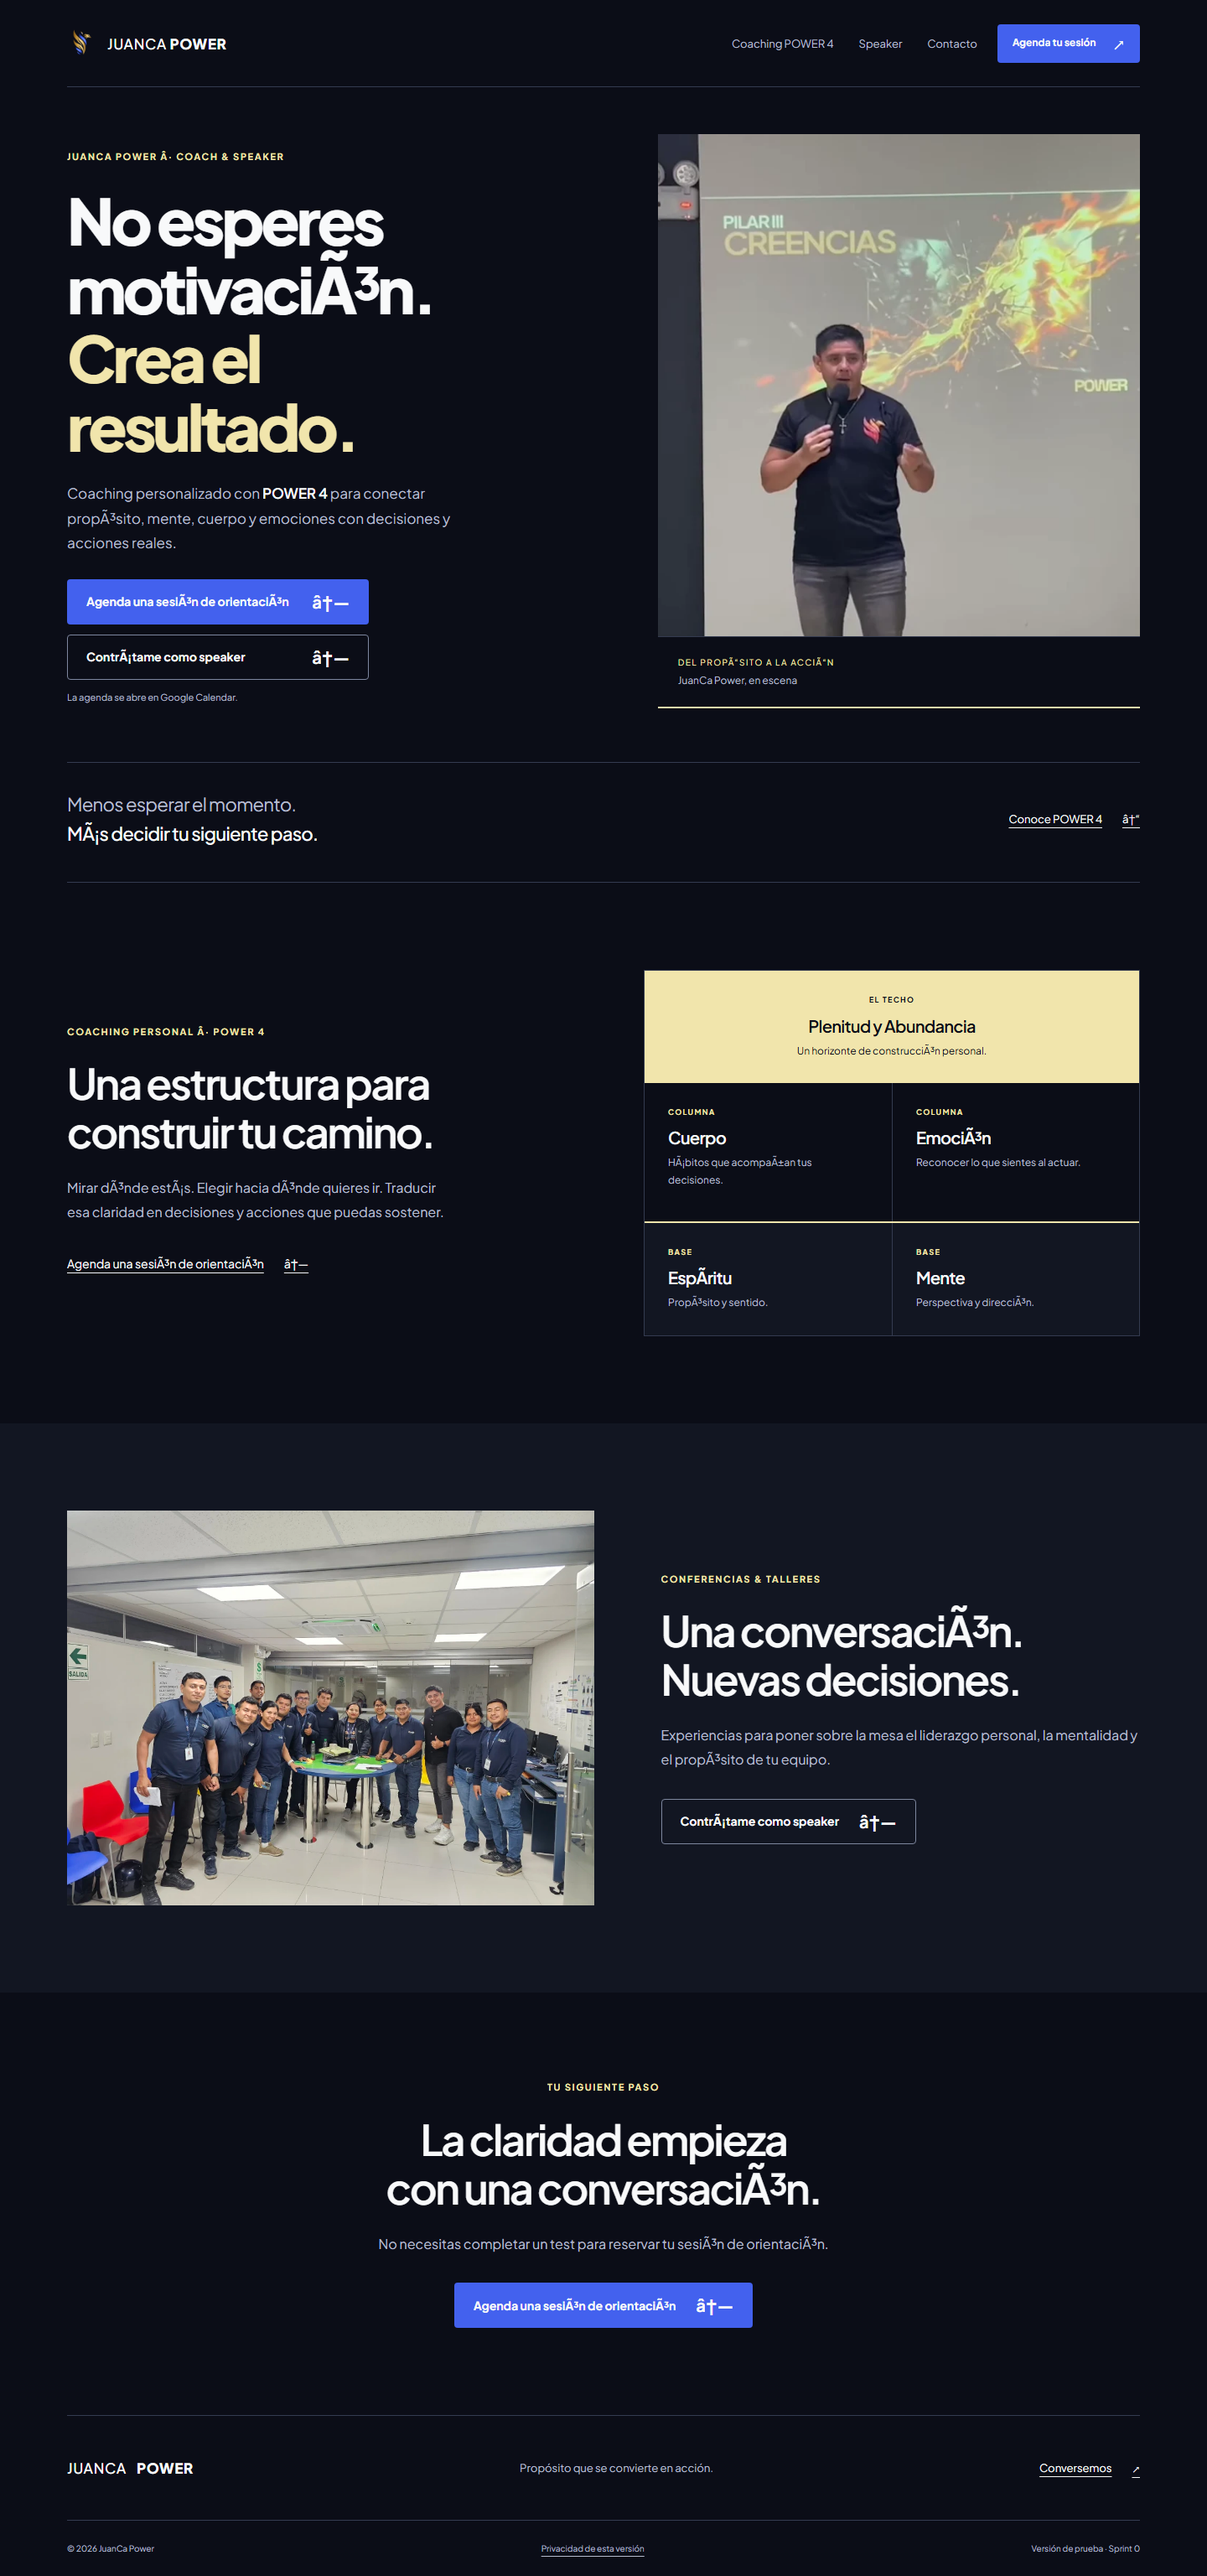
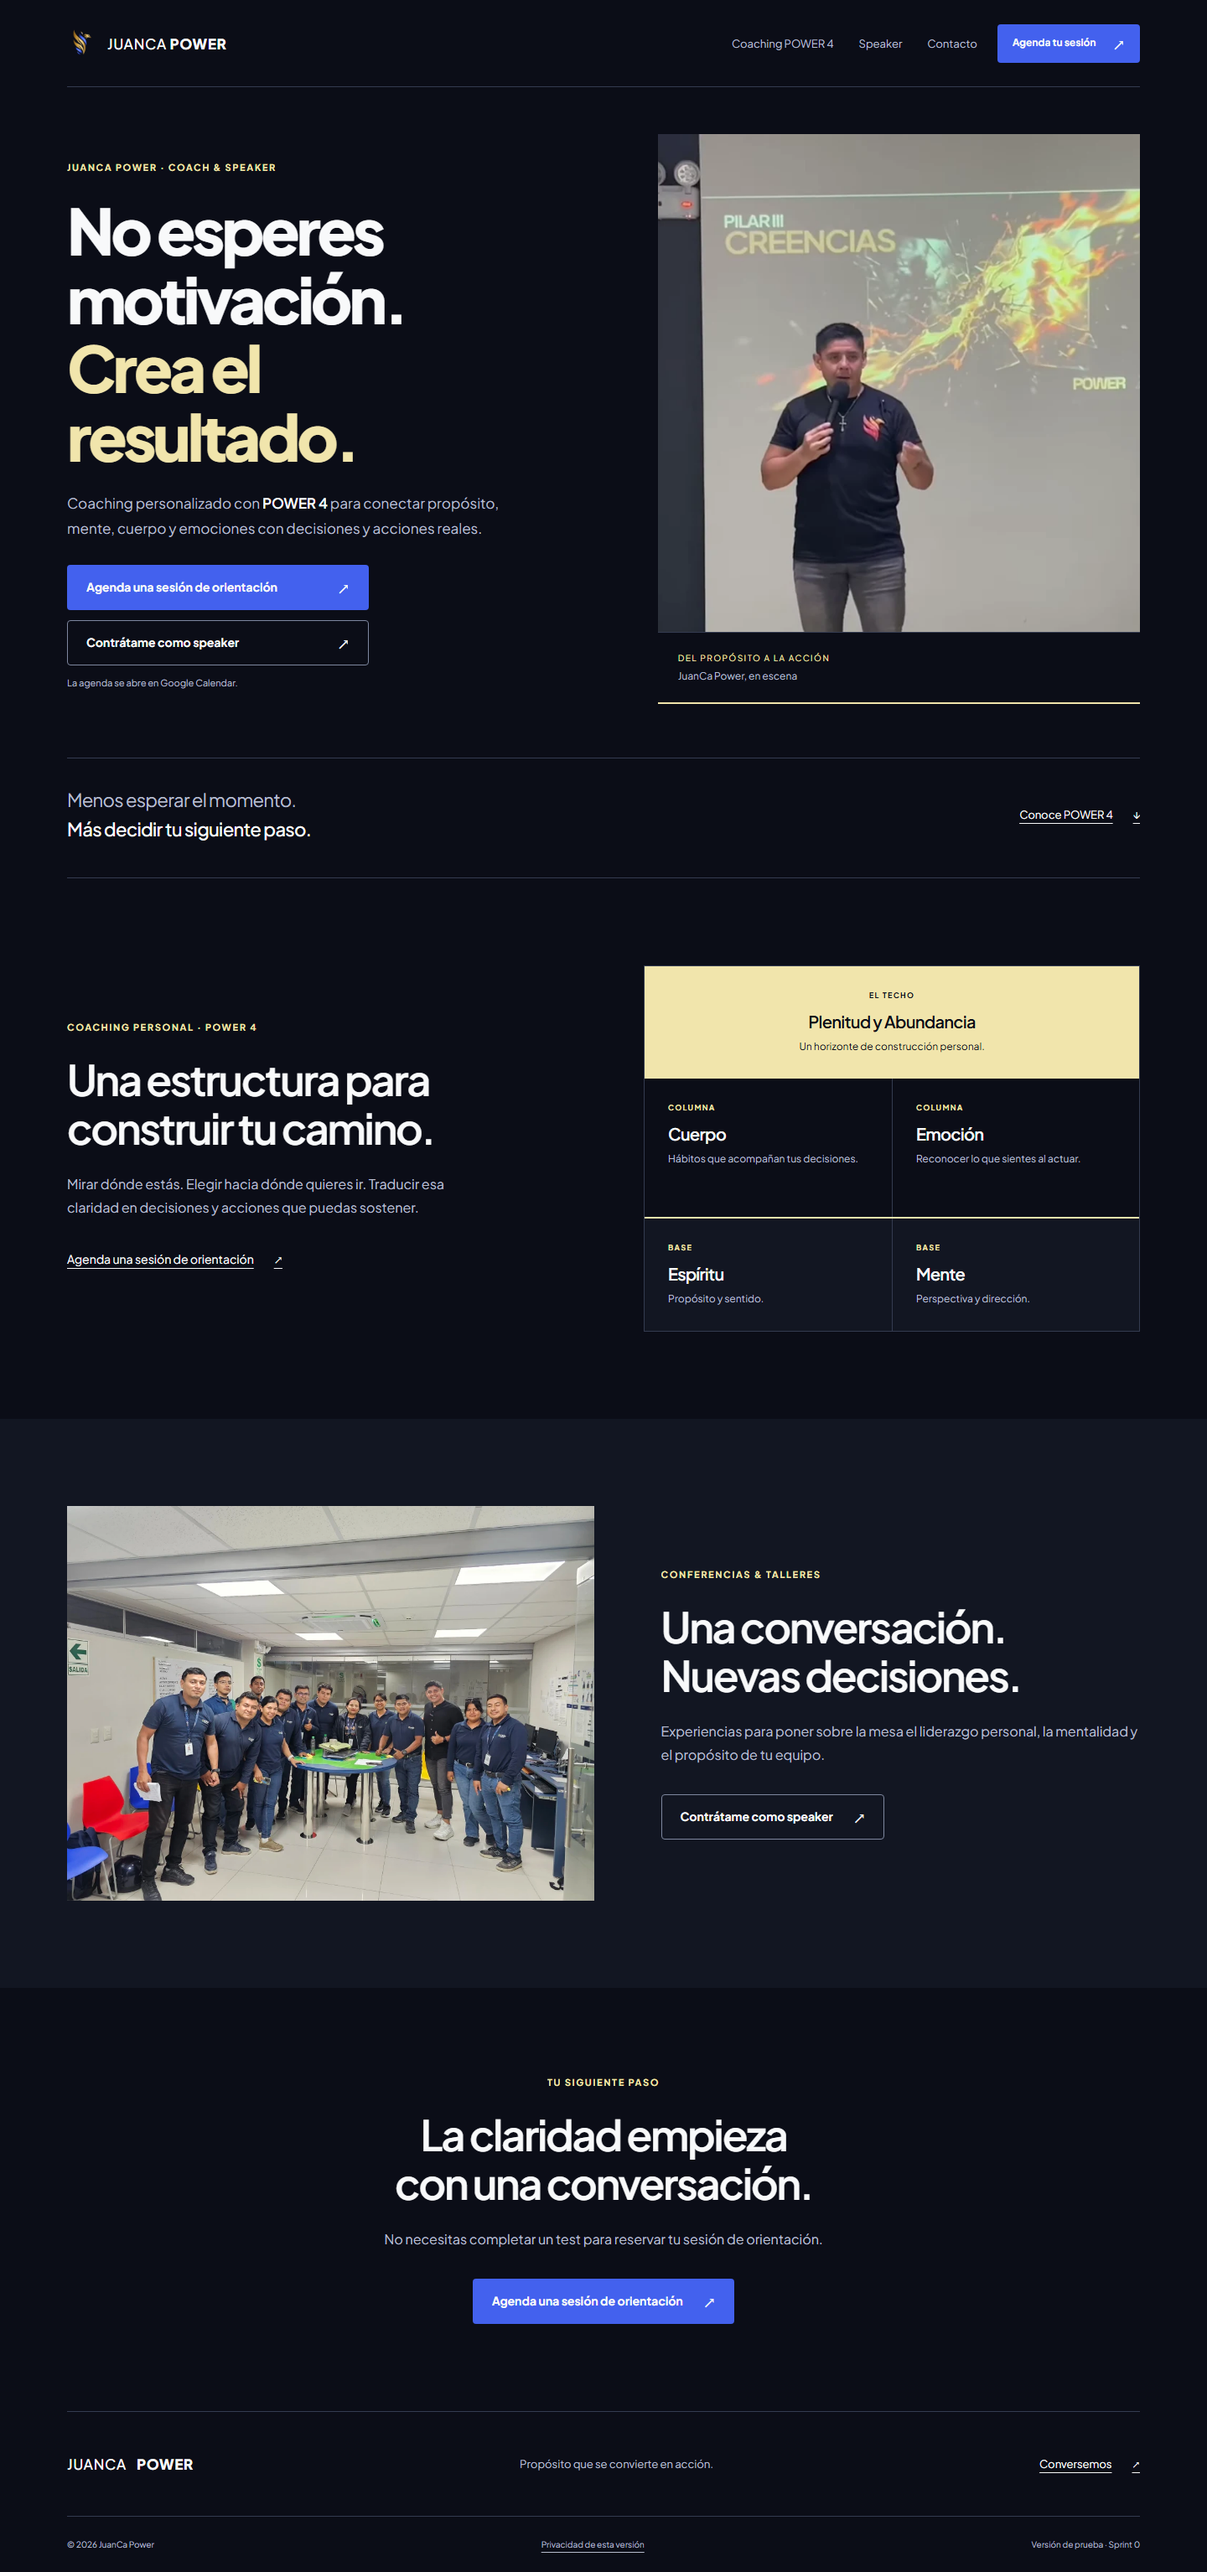
fix: preserve Spanish text encoding and verify exact hero copy

diff --git a/src/styles/global.css b/src/styles/global.css
@@ -1,4 +1,4 @@
-/* JuanCa Power 2.0 â€” source: design-system/MASTER.md */
+/* JuanCa Power 2.0 — source: design-system/MASTER.md */
 :root{--bg:#0B0D17;--surface:#121622;--primary:#4361EE;--primary-hover:#3854DA;--gold:#F1E5AC;--text:#F8F9FA;--muted:#B7BDCE;--line:#343B50;font-family:'Plus Jakarta Sans Variable',sans-serif;color:var(--text);background:var(--bg);font-synthesis:none;color-scheme:dark}
 *{box-sizing:border-box}body{margin:0}h1,h2,h3,p,figure{margin:0}img{display:block;max-width:100%;height:auto}a{color:inherit;text-underline-offset:5px}button,summary,a{-webkit-tap-highlight-color:transparent}a,summary{touch-action:manipulation}a:focus-visible,summary:focus-visible{outline:3px solid var(--gold);outline-offset:5px}main:focus{outline:none}::selection{background:var(--gold);color:var(--bg)}.wrap{width:min(100% - 96px,1280px);margin-inline:auto}.skip{position:absolute;left:24px;top:-100px;z-index:20;padding:14px;background:var(--gold);color:var(--bg)}.skip:focus{top:12px}.header{display:flex;align-items:center;gap:24px;min-height:104px;border-bottom:1px solid var(--line);position:relative;z-index:10}.brand{display:inline-flex;align-items:center;gap:12px;font-size:17px;font-weight:500;letter-spacing:.04em;text-decoration:none;white-space:nowrap}.brand strong{font-weight:800}.brand img{width:36px;height:36px;object-fit:contain}.desktop-nav{display:flex;gap:30px;margin-left:auto}.desktop-nav a{font-size:13px;text-decoration:none;padding:14px 0;color:var(--muted)}.desktop-nav a:hover,.desktop-nav a[aria-current]{color:var(--gold)}.button{display:inline-flex;justify-content:center;align-items:center;gap:24px;min-height:52px;padding:16px 22px;border:1px solid transparent;background:var(--primary);border-radius:4px;font-size:14px;font-weight:700;line-height:1.4;text-decoration:none;transition:background 160ms ease-out,border-color 160ms ease-out}.button span{font-size:20px;line-height:1}.button:hover{background:var(--primary-hover)}.button:active{transform:translateY(1px)}.button-outline{background:transparent;border-color:#7E879F}.button-outline:hover{background:var(--surface);border-color:var(--gold)}.header-book{min-height:46px;padding:12px 17px;font-size:12px;gap:20px}.mobile-menu{display:none}.eyebrow{font-size:11px;font-weight:700;letter-spacing:.15em;line-height:1.6;color:var(--gold)}.hero{display:grid;grid-template-columns:1.1fr 1fr;gap:48px;align-items:stretch;padding-block:56px 64px}.hero-copy{padding:18px 0 4px;align-self:center}h1{font-size:clamp(2.5rem,4.9vw,4.75rem);line-height:1.08;letter-spacing:-.055em;font-weight:800}h1 span{color:var(--gold)}.hero h1{margin:25px 0}.intro{font-size:17px;line-height:1.75;color:var(--muted);max-width:520px}.intro strong{color:var(--text);font-weight:600}.hero-actions{display:flex;align-items:stretch;flex-direction:column;gap:12px;margin-top:28px;max-width:360px}.hero-actions .button{justify-content:space-between}.provider-note{font-size:11px;line-height:1.6;color:var(--muted);margin-top:12px}.hero-photo{position:relative;min-height:640px;background:var(--surface);border-bottom:2px solid var(--gold)}.hero-photo img{width:100%;height:100%;position:absolute;object-fit:cover;object-position:39% center}.hero-photo figcaption{position:absolute;bottom:0;left:0;right:0;padding:24px;background:var(--bg);border-top:1px solid var(--line);display:flex;flex-direction:column;gap:8px}.hero-photo figcaption span:first-child{font-size:10px;letter-spacing:.15em;color:var(--gold)}.hero-photo figcaption span:last-child{font-size:12px;color:var(--muted)}.thesis{display:flex;justify-content:space-between;align-items:center;padding-block:32px 40px;border-top:1px solid var(--line);border-bottom:1px solid var(--line)}.thesis p{font-size:22px;line-height:1.6;color:var(--muted);letter-spacing:-.03em}.thesis strong{color:var(--text);font-weight:500}.thesis a{font-size:13px;display:flex;gap:24px;align-items:center;min-height:44px}.section{padding-block:104px}h2{font-size:clamp(2rem,3.5vw,3.25rem);line-height:1.15;letter-spacing:-.045em;font-weight:600}.section p:not(.eyebrow),.contact-options p:not(.eyebrow){color:var(--muted);font-size:16px;line-height:1.8}.section .eyebrow{margin-bottom:24px}.section h2{margin-bottom:24px}.method{display:grid;grid-template-columns:1fr 1fr;gap:96px;align-items:center;scroll-margin-top:32px}.section-heading>p:not(.eyebrow){max-width:450px}.text-link{display:inline-flex;gap:24px;align-items:center;min-height:44px;font-size:14px;margin-top:24px}.power-house{border:1px solid var(--line)}.power-house .eyebrow{display:block;margin:0 0 10px;font-size:9px}.power-house h3{font-size:20px;font-weight:600;letter-spacing:-.035em}.power-house p{font-size:12px!important;line-height:1.7!important;margin-top:8px}.roof{text-align:center;padding:28px 20px;background:var(--gold);color:var(--bg)}.roof .eyebrow,.roof p{color:var(--bg)!important}.columns,.foundations{display:grid;grid-template-columns:1fr 1fr}.columns>div,.foundations>div{padding:28px}.columns>div+div,.foundations>div+div{border-left:1px solid var(--line)}.columns{min-height:165px}.foundations{border-top:2px solid var(--gold);background:var(--surface)}.speaker-teaser{background:var(--surface)}.speaker-grid{display:grid;grid-template-columns:1.1fr 1fr;gap:80px;align-items:center}.speaker-grid img{width:100%;aspect-ratio:4/3;object-fit:cover}.speaker-grid .button{margin-top:32px}.final-cta{text-align:center}.final-cta .button{margin-top:32px}.footer{border-top:1px solid var(--line);padding-block:40px 24px}.footer-main{display:flex;align-items:center;gap:32px;justify-content:space-between}.footer p{font-size:13px;color:var(--muted)}.footer-main>a:last-child{font-size:13px;min-height:44px;display:inline-flex;align-items:center;gap:24px}.footer-bottom{display:flex;justify-content:space-between;gap:24px;margin-top:40px;padding-top:24px;border-top:1px solid var(--line);font-size:10px;line-height:1.8;color:var(--muted)}.page-hero{padding-bottom:64px;max-width:1280px}.page-hero h1{margin-block:24px}.page-hero .button{margin-top:32px}.event-wide img{width:100%;max-height:560px;object-fit:cover;object-position:center 40%}.event-wide figcaption{font-size:12px;color:var(--muted);padding-top:16px}.brief{display:grid;grid-template-columns:1fr 1fr;gap:80px}.brief p+p,.privacy p+p{margin-top:20px}.secondary-link{display:block;width:fit-content;padding-block:14px;font-size:13px;color:var(--muted)}.contact-options{display:grid;grid-template-columns:1fr 1fr;gap:24px}.contact-options article{padding:40px;background:var(--surface);border:1px solid var(--line)}.contact-options h2{font-size:28px;margin-block:20px}.contact-options .button{margin-top:28px}.privacy{max-width:820px;margin-left:max(48px,calc((100% - 1280px)/2));scroll-margin-top:32px}.privacy h2{font-size:28px}
 @media(min-width:1440px){.hero{gap:72px}.hero h1{font-size:76px}.hero-photo{min-height:680px}}

diff --git a/tests/site.spec.ts b/tests/site.spec.ts
@@ -22,6 +22,7 @@ for (const width of [360,375,768,1024,1440]) {
       expect(await page.context().cookies()).toEqual([]);
       expect(await page.evaluate(()=>({local:localStorage.length,session:sessionStorage.length}))).toEqual({local:0,session:0});
       if(width===360||width===1440) await page.screenshot({path:testInfo.outputPath(`${route.replace('/','')||'home'}-${width}.png`),fullPage:true});
+      if(!route) await expect(page.locator('h1')).toHaveText(/No esperes\s+motivación\.\s*Crea el\s*resultado\./);
       if(!route && width===360){const box=await page.getByRole('link',{name:'Agenda una sesión de orientación',exact:false}).first().boundingBox();expect(box!.y+box!.height).toBeLessThan(800);}
     });
   }

diff --git a/design-system/MASTER.md b/design-system/MASTER.md
@@ -1,31 +1,31 @@
-# JuanCa Power 2.0 Â· Sistema maestro
+# JuanCa Power 2.0 · Sistema maestro
 
-## FunciÃ³n y evidencia
-Audiencia: personas que buscan coaching personal y responsables de conferencias/talleres. Trabajo principal: llevar a orientaciÃ³n; secundario: contrataciÃ³n speaker. CTA dominante: Â«Agenda una sesiÃ³n de orientaciÃ³nÂ». Brief del Sprint 0 prevalece sobre identidades previas: Plus Jakarta Sans Ãºnica familia y dorado #F1E5AC. No precios definitivos, garantÃas, estadÃsticas ni testimonios sin verificar.
+## Función y evidencia
+Audiencia: personas que buscan coaching personal y responsables de conferencias/talleres. Trabajo principal: llevar a orientación; secundario: contratación speaker. CTA dominante: «Agenda una sesión de orientación». Brief del Sprint 0 prevalece sobre identidades previas: Plus Jakarta Sans única familia y dorado #F1E5AC. No precios definitivos, garantías, estadísticas ni testimonios sin verificar.
 
-## DirecciÃ³n
-Cinematic contenido: fotografÃa real de JuanCa en un escenario, composiciÃ³n editorial en dos planos y titular dominante. La firma es la relaciÃ³n entre la acciÃ³n real en la foto y Â«Crea el resultadoÂ» en dorado. Sin fondos generados, rostros sintÃ©ticos, glows, partÃculas, bento o parallax. Diales: varianza 6/10, movimiento 2/10, densidad 3/10. Se descartÃ³ superponer todo el texto en la foto: dificulta contrastes y recorte mÃ³vil; se mantiene panel de texto sÃ³lido.
+## Dirección
+Cinematic contenido: fotografía real de JuanCa en un escenario, composición editorial en dos planos y titular dominante. La firma es la relación entre la acción real en la foto y «Crea el resultado» en dorado. Sin fondos generados, rostros sintéticos, glows, partículas, bento o parallax. Diales: varianza 6/10, movimiento 2/10, densidad 3/10. Se descartó superponer todo el texto en la foto: dificulta contrastes y recorte móvil; se mantiene panel de texto sólido.
 
 ## Tokens
 - `--bg`: #0B0D17; `--surface`: #121622; `--text`: #F8F9FA.
 - `--primary`: #4361EE; `--primary-hover`: #3854DA; `--gold`: #F1E5AC.
 - `--muted`: #B7BDCE; `--line`: #343B50; `--focus`: #F1E5AC.
-- Pares: texto, muted y gold sobre bg/surface; blanco sobre primary. VerificaciÃ³n numÃ©rica en test, AA normal >=4.5:1. Primary no se usa como texto pequeÃ±o sobre bg.
+- Pares: texto, muted y gold sobre bg/surface; blanco sobre primary. Verificación numérica en test, AA normal >=4.5:1. Primary no se usa como texto pequeño sobre bg.
 
-## Tipo y geometrÃa
-Plus Jakarta Sans variable, local (paquete Fontsource), font-display swap. Pesos 400â€“800. Display clamp(2.5rem, 4.9vw, 4.75rem), lÃnea 1.08, tracking -0.055em. H2 clamp(2rem,3.5vw,3.25rem), cuerpo 1rem/1.7, intro 1.125rem/1.7, etiqueta .75rem con tracking .14em. Ancho 1280px; gutters 24px mÃ³vil / 48px desktop. Espaciado 8,16,24,32,48,64,96px. Dos columnas hero 1.1fr/1fr. Radios 4px botones, 0 fotografÃa, 8px paneles; sin sombras ornamentales.
+## Tipo y geometría
+Plus Jakarta Sans variable, local (paquete Fontsource), font-display swap. Pesos 400–800. Display clamp(2.5rem, 4.9vw, 4.75rem), línea 1.08, tracking -0.055em. H2 clamp(2rem,3.5vw,3.25rem), cuerpo 1rem/1.7, intro 1.125rem/1.7, etiqueta .75rem con tracking .14em. Ancho 1280px; gutters 24px móvil / 48px desktop. Espaciado 8,16,24,32,48,64,96px. Dos columnas hero 1.1fr/1fr. Radios 4px botones, 0 fotografía, 8px paneles; sin sombras ornamentales.
 
 ## Componentes y estados
-Header con isotipo real y texto de marca; navegaciÃ³n reducida, `aria-current`. En mÃ³vil menÃº nativo details/summary operable sin JS, CTA compacto visible. Botones/enlaces >=44px, primario azul, secundario borde, enlaces de texto subrayados. Hover cambia color/borde, active leve presiÃ³n, foco contorno 3px separado. No botones deshabilitados decorativos. Tarjetas solo cuando agrupan opciones; sin tarjetas para cada frase. Footer ofrece contacto y aviso de privacidad del preview. No formularios en Sprint 0: no se simula recepciÃ³n ni Ã©xito.
+Header con isotipo real y texto de marca; navegación reducida, `aria-current`. En móvil menú nativo details/summary operable sin JS, CTA compacto visible. Botones/enlaces >=44px, primario azul, secundario borde, enlaces de texto subrayados. Hover cambia color/borde, active leve presión, foco contorno 3px separado. No botones deshabilitados decorativos. Tarjetas solo cuando agrupan opciones; sin tarjetas para cada frase. Footer ofrece contacto y aviso de privacidad del preview. No formularios en Sprint 0: no se simula recepción ni éxito.
 
-## FotografÃa y marca
-Activos reales recuperados de componentes pÃºblicos del repo antiguo: escenario_naywym y CajaArequipa_Piura2. Descargados y optimizados WebP; dimensiones reservadas, hero eager/high, secundaria lazy. Isotipo oficial sin redibujar. No usar el antiguo hero de biblioteca por falta de evidencia suficiente de procedencia fotogrÃ¡fica. Inventario en docs/AUDIT.md. No se interpreta la imagen de un evento como aval corporativo.
+## Fotografía y marca
+Activos reales recuperados de componentes públicos del repo antiguo: escenario_naywym y CajaArequipa_Piura2. Descargados y optimizados WebP; dimensiones reservadas, hero eager/high, secundaria lazy. Isotipo oficial sin redibujar. No usar el antiguo hero de biblioteca por falta de evidencia suficiente de procedencia fotográfica. Inventario en docs/AUDIT.md. No se interpreta la imagen de un evento como aval corporativo.
 
 ## Movimiento
-Scroll nativo; feedback de botones 160ms ease-out, una entrada opcional de imagen 600ms opacidad. Texto y CTA visibles desde el HTML. Reduced motion elimina animaciones/transiciones y smooth scroll; sin librerÃa de animaciÃ³n. Nada permanente.
+Scroll nativo; feedback de botones 160ms ease-out, una entrada opcional de imagen 600ms opacidad. Texto y CTA visibles desde el HTML. Reduced motion elimina animaciones/transiciones y smooth scroll; sin librería de animación. Nada permanente.
 
 ## Responsive
-360/375px: texto/CTA primero, fotografÃa despuÃ©s, menÃº compacto. 768px: navegaciÃ³n amplia segÃºn espacio; hero sigue apilado hasta 1024px. >=1024px: hero en dos columnas. >=1440px: contenedor mÃ¡ximo. La imagen no oculta texto, no se fuerza altura de viewport. Revisar paisaje, zoom 200%, tÃtulos largos y footer.
+360/375px: texto/CTA primero, fotografía después, menú compacto. 768px: navegación amplia según espacio; hero sigue apilado hasta 1024px. >=1024px: hero en dos columnas. >=1440px: contenedor máximo. La imagen no oculta texto, no se fuerza altura de viewport. Revisar paisaje, zoom 200%, títulos largos y footer.
 
 ## Calidad y presupuesto
-HTML semÃ¡ntico, lang es-PE, un h1 por ruta, skip link, encabezados ordenados, alt significativo, nombres accesibles y foco visible. No trackers, embeds, cookies propias ni almacenamiento. Fuente local, sin peticiones de terceros al cargar. Hero objetivo <=250KB; secundaria <=180KB. NingÃºn runtime de UI enviado. Noindex en preview, canonical y OG propios del staging. Build + enlaces/deep links + navegador en 360,375,768,1024,1440 + axe + teclado + capturas. Cada estado de publicaciÃ³n se informa por separado.
+HTML semántico, lang es-PE, un h1 por ruta, skip link, encabezados ordenados, alt significativo, nombres accesibles y foco visible. No trackers, embeds, cookies propias ni almacenamiento. Fuente local, sin peticiones de terceros al cargar. Hero objetivo <=250KB; secundaria <=180KB. Ningún runtime de UI enviado. Noindex en preview, canonical y OG propios del staging. Build + enlaces/deep links + navegador en 360,375,768,1024,1440 + axe + teclado + capturas. Cada estado de publicación se informa por separado.
